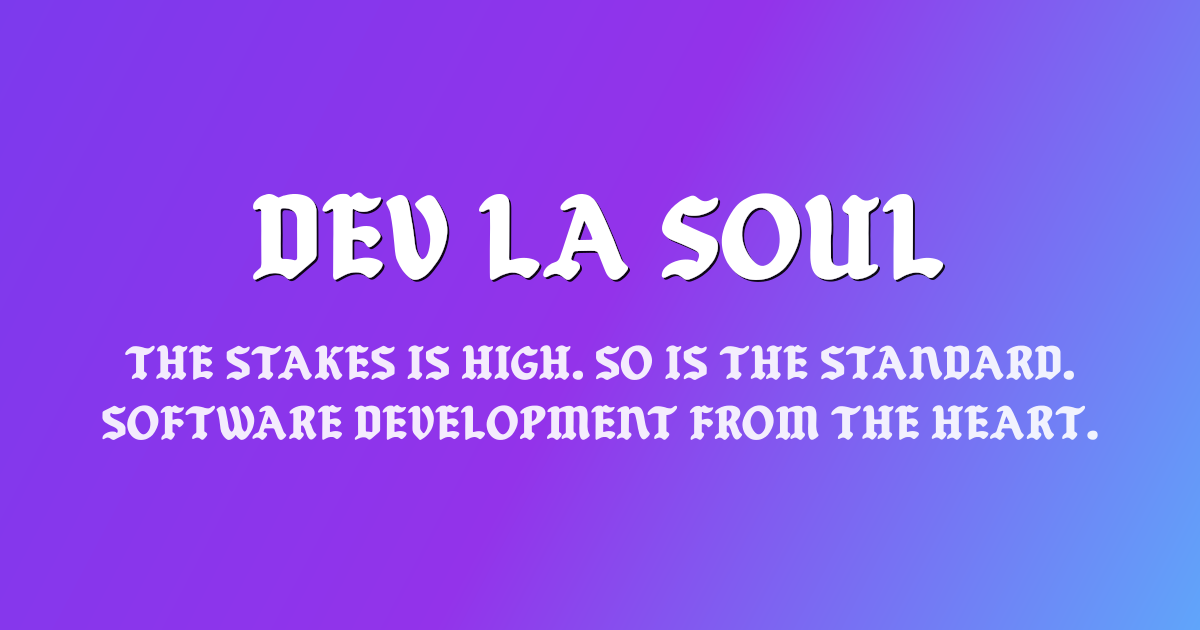
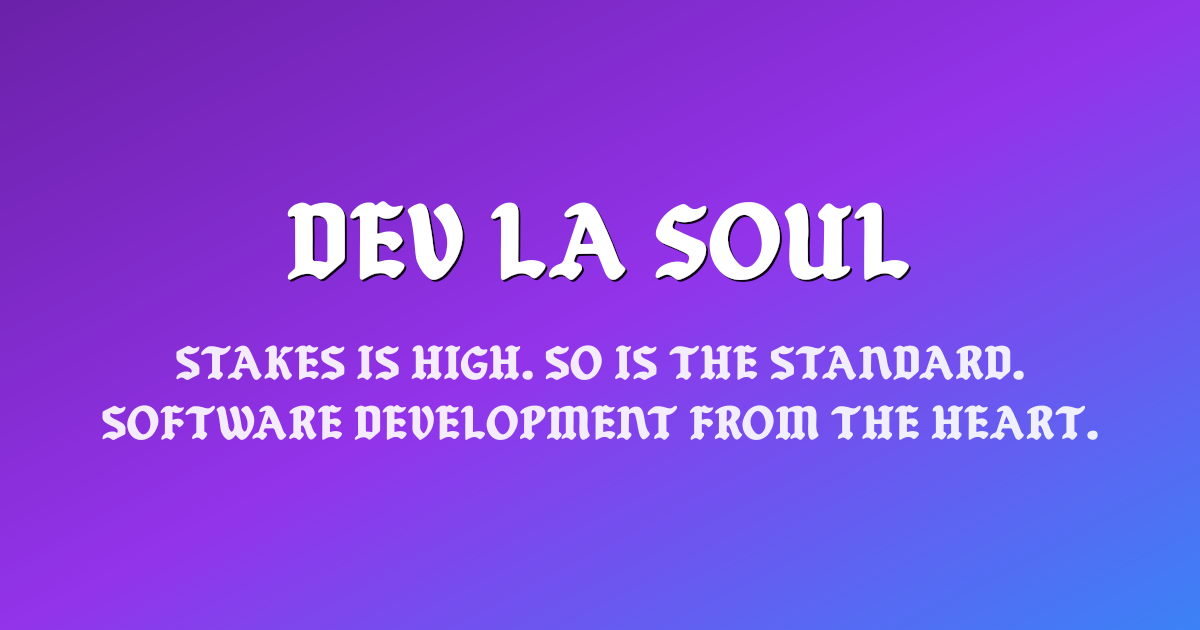
Generate OG image on build
Totally overengineer, lovely solution for re-generating OG image when
building the site.

diff --git a/scripts/generate-og-image.ts b/scripts/generate-og-image.ts
@@ -1,0 +1,107 @@
+import { readFile, mkdir, writeFile } from "node:fs/promises";
+import { join } from "node:path";
+import sharp from "sharp";
+
+type ExtractedContent = {
+  title: string;
+  titleSize: string;
+  taglines: string[];
+  taglineSize: string;
+};
+
+// Tailwind font size mapping (in pixels).
+// This does not map 1:1 with actual TW sizes, but instead what
+// we should look good in the image.
+const TAILWIND_SIZES = {
+  "text-2xl": "48px",
+  "text-6xl": "108px",
+  "text-7xl": "120px",
+  "text-8xl": "144px",
+};
+
+async function extractFromApp(): Promise<ExtractedContent> {
+  const appContent = await readFile(
+    join(process.cwd(), "src/App.tsx"),
+    "utf-8",
+  );
+
+  // Extract title and its size from h1
+  const titleElement = appContent.match(/<h1[^>]*>[\s\n]*(.*?)[\s\n]*<\/h1>/);
+  const titleClassMatch = titleElement?.[0].match(/className="([^"]+)"/);
+  const titleSizeMatch = titleClassMatch?.[1].match(/text-(6xl|7xl|8xl)/);
+  const title = titleElement ? titleElement[1].trim() : "DEV LA SOUL";
+
+  // Extract taglines and their size from h2s
+  const taglineElements = Array.from(
+    appContent.matchAll(/<h2[^>]*>[\s\n]*(.*?)[\s\n]*<\/h2>/g),
+  );
+  const taglines = taglineElements.map((match) => match[1].trim());
+
+  const taglineClassMatch =
+    taglineElements[0]?.[0].match(/className="([^"]+)"/);
+  const taglineSizeMatch = taglineClassMatch?.[1].match(/text-(2xl)/);
+
+  // Use the extracted sizes, defaulting to 8xl for title and 2xl for taglines if not found
+  const titleSize = titleSizeMatch
+    ? TAILWIND_SIZES[`text-${titleSizeMatch[1]}`]
+    : TAILWIND_SIZES["text-8xl"];
+
+  const taglineSize = taglineSizeMatch
+    ? TAILWIND_SIZES[`text-${taglineSizeMatch[1]}`]
+    : TAILWIND_SIZES["text-2xl"];
+
+  console.debug({ title, titleSize, taglines, taglineSize });
+
+  return { title, titleSize, taglines, taglineSize };
+}
+
+async function generate() {
+  const { title, titleSize, taglines, taglineSize } = await extractFromApp();
+
+  const svgTemplate = `<svg width="1200" height="630" viewBox="0 0 1200 630" xmlns="http://www.w3.org/2000/svg">
+    <defs>
+      <linearGradient id="gradient" x1="0" y1="0" x2="100%" y2="100%">
+        <stop offset="0%" stop-color="#6B21A8" />
+        <stop offset="50%" stop-color="#9333EA" />
+        <stop offset="100%" stop-color="#3B82F6" />
+      </linearGradient>
+      <filter id="shadow" x="-20" y="-20" width="1240" height="670">
+        <feDropShadow dx="0" dy="4" stdDeviation="4" flood-color="black" flood-opacity="0.8" />
+        <feDropShadow dx="2" dy="2" stdDeviation="0.5" flood-color="black" flood-opacity="0.9" />
+      </filter>
+    </defs>
+
+    <rect width="1200" height="630" fill="url(#gradient)" />
+
+    <!-- Title -->
+    <text x="600" y="280" font-family="Grandmaster Clash" font-size="${titleSize}" fill="white" text-anchor="middle" filter="url(#shadow)">
+      ${title}
+    </text>
+    
+    <!-- Taglines -->
+    <text x="600" y="380" font-family="Grandmaster Clash" font-size="${taglineSize}" fill="white" opacity="0.9" text-anchor="middle">
+      ${taglines[0]}
+    </text>
+    <text x="600" y="440" font-family="Grandmaster Clash" font-size="${taglineSize}" fill="white" opacity="0.9" text-anchor="middle">
+      ${taglines[1]}
+    </text>
+  </svg>`;
+
+  // Ensure public directory exists
+  const publicDir = join(process.cwd(), "public");
+  await mkdir(publicDir, { recursive: true });
+
+  // Write SVG file
+  const svgPath = join(publicDir, "og-image.svg");
+  await writeFile(svgPath, svgTemplate);
+
+  // Convert to PNG
+  await sharp(Buffer.from(svgTemplate))
+    .resize(1200, 630)
+    .png()
+    .toFile(join(publicDir, "og-image.png"));
+
+  console.log("✨ Generated og-image.svg and og-image.png");
+}
+
+generate().catch(console.error);

diff --git a/src/App.tsx b/src/App.tsx
@@ -1,16 +1,18 @@
 function App() {
   return (
-    <div className="fixed inset-0 flex items-center justify-center overflow-hidden bg-linear-45 from-purple-600 via-purple-400 to-blue-400">
+    <div className="flex min-h-screen items-center justify-center bg-gradient-to-br from-purple-800 via-purple-600 to-blue-500">
       <div className="text-center">
-        <h1 className="mb-4 font-grandmaster text-6xl text-white tracking-widest drop-shadow-[0_4px_8px_rgba(88,28,135,0.8)] sm:text-7xl md:text-8xl">
+        <h1 className="mb-4 font-grandmaster text-6xl text-white tracking-widest drop-shadow-[0_4px_8px_rgba(0,0,0,0.8)] [text-shadow:2px_2px_1px_rgba(0,0,0,0.9)] sm:text-7xl md:text-8xl">
           DEV LA SOUL
         </h1>
-        <h2 className="px-8 py-2 font-grandmaster text-2xl text-white/90 sm:text-2xl">
-          stakes is high. so is the standard.
-          <br />
-          <br />
-          software development from the heart.
-        </h2>
+        <div className="space-y-4">
+          <h2 className="px-8 font-grandmaster text-2xl text-white/90 sm:text-2xl">
+            stakes is high. so is the standard.
+          </h2>
+          <h2 className="px-8 font-grandmaster text-2xl text-white/90 sm:text-2xl">
+            software development from the heart.
+          </h2>
+        </div>
       </div>
     </div>
   );

diff --git a/scripts/tailwind-utils.ts b/scripts/tailwind-utils.ts
@@ -1,0 +1,45 @@
+import colors from "tailwindcss/colors";
+
+type GradientConfig = {
+  direction: string;
+  colors: {
+    from: string;
+    via?: string;
+    to: string;
+  };
+};
+
+export function extractGradient(className: string): GradientConfig {
+  const directionMatch = className.match(/bg-gradient-to-(\w+)/);
+  const fromMatch = className.match(/from-([^\s]+)/);
+  const viaMatch = className.match(/via-([^\s]+)/);
+  const toMatch = className.match(/to-([^\s]+)/);
+
+  if (!directionMatch || !fromMatch || !toMatch) {
+    throw new Error("Could not extract gradient configuration from className");
+  }
+
+  const direction = directionMatch[1];
+  const fromColor = getColorFromClass(fromMatch[1]);
+  const viaColor = viaMatch ? getColorFromClass(viaMatch[1]) : undefined;
+  const toColor = getColorFromClass(toMatch[1]);
+
+  return {
+    direction,
+    colors: {
+      from: fromColor,
+      ...(viaColor ? { via: viaColor } : {}),
+      to: toColor,
+    },
+  };
+}
+
+function getColorFromClass(colorClass: string): string {
+  const [color, shade] = colorClass.split("-");
+
+  if (!colors[color] || !colors[color][shade]) {
+    throw new Error(`Could not find color: ${colorClass}`);
+  }
+
+  return colors[color][shade];
+}
